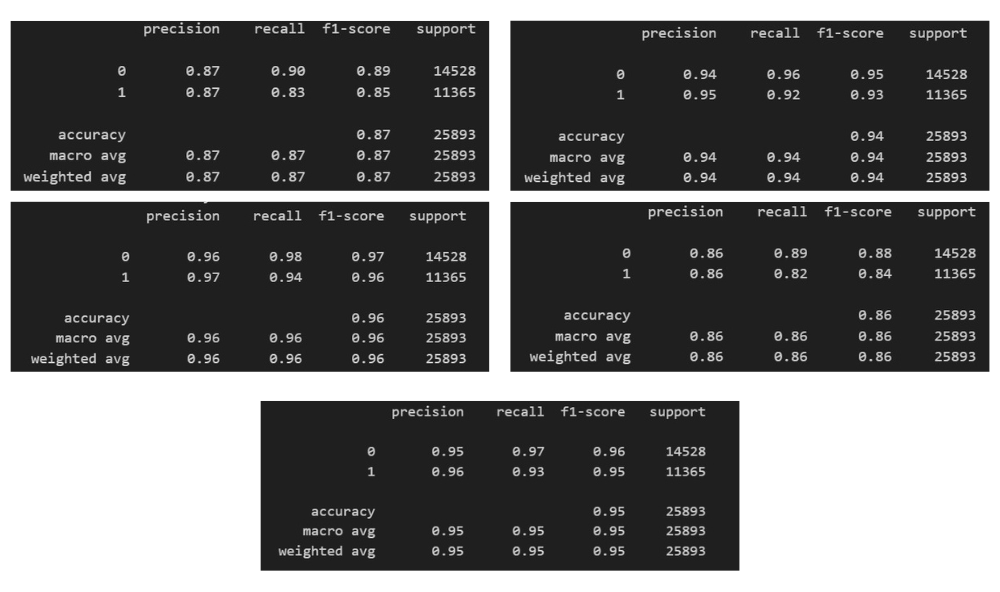
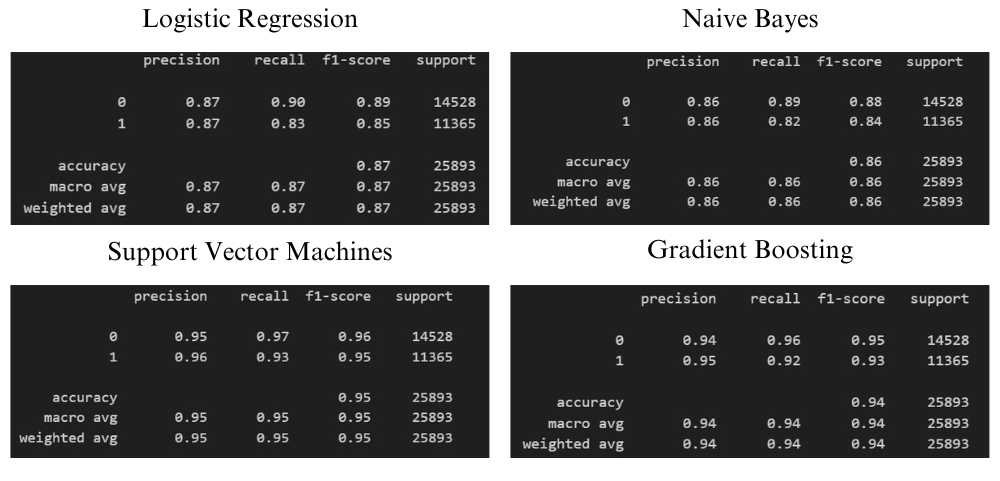
Deploy

diff --git a/README.md b/README.md
@@ -27,11 +27,11 @@ This is a Data Science project by Samia BELHADDAD, focused on predicting custome
 
 ## Project Overview
 
-Companies that can effectively anticipate customer needs and tailor their services accordingly are more likely to thrive. This project focuses on leveraging data science techniques to predict customer satisfaction accurately. Five distinct machine learning models were built to achieve this goal, aiming to provide businesses with actionable insights into improving customer experiences.
+Companies that can effectively anticipate customer needs and tailor their services accordingly are more likely to thrive. This project focuses on leveraging data science techniques to predict customer satisfaction accurately. 4 distinct machine learning models were built to achieve this goal, aiming to provide businesses with actionable insights into improving customer experiences.
 
 ### Tools and Technology
 - Python, Scikit Learn, Pandas, Numpy, Matplotlib, Seaborn
-- Logistic Regression, Random Forest, Gradient Boosting, SVM, Naive Bayes
+- Logistic Regression, Gradient Boosting, SVM, Naive Bayes
 - Streamlit Web App
 - Jupyter Notebook, Visual Studio Code, Git, GitHub
 
@@ -52,7 +52,8 @@ The scope of this project encompassed the following key aspects:
 - Data Collection: Gathering and preprocessing customer-related data, including purchase history, customer demographics, and feedback.
 - Exploratory Data Analysis (EDA): Investigating data patterns and identifying key features that influence customer satisfaction.
 - Feature Engineering: Creating relevant features to enhance model performance.
-- Model Selection: Choosing five machine learning models suitable for customer satisfaction prediction.
+- Model Selection: Choosing Four 
+machine learning models suitable for customer satisfaction prediction.
 - Model Training: Optimizing and fine-tuning each selected model.
 - Model Evaluation: Assessing model performance using metrics such as accuracy, F1-score, and ROC-AUC.
 - Deliverable Creation: Generating a detailed report, codebase, and interactive demo for showcasing the project's outcomes.
@@ -85,7 +86,7 @@ Data has 22 features and a target feature. The dataset represents user demograph
 
 ## Metrics and Results
 
-Developed and fine-tuned five machine learning models for customer satisfaction prediction. Achieved the following accuracies on the test dataset, demonstrating the effectiveness of the predictive models. Identified key features that significantly influence customer satisfaction, providing actionable insights for businesses.
+Developed and fine-tuned four machine learning models for customer satisfaction prediction. Achieved the following accuracies on the test dataset, demonstrating the effectiveness of the predictive models. Identified key features that significantly influence customer satisfaction, providing actionable insights for businesses.
 
 The metrics used for evaluation are:
 - Accuracy
